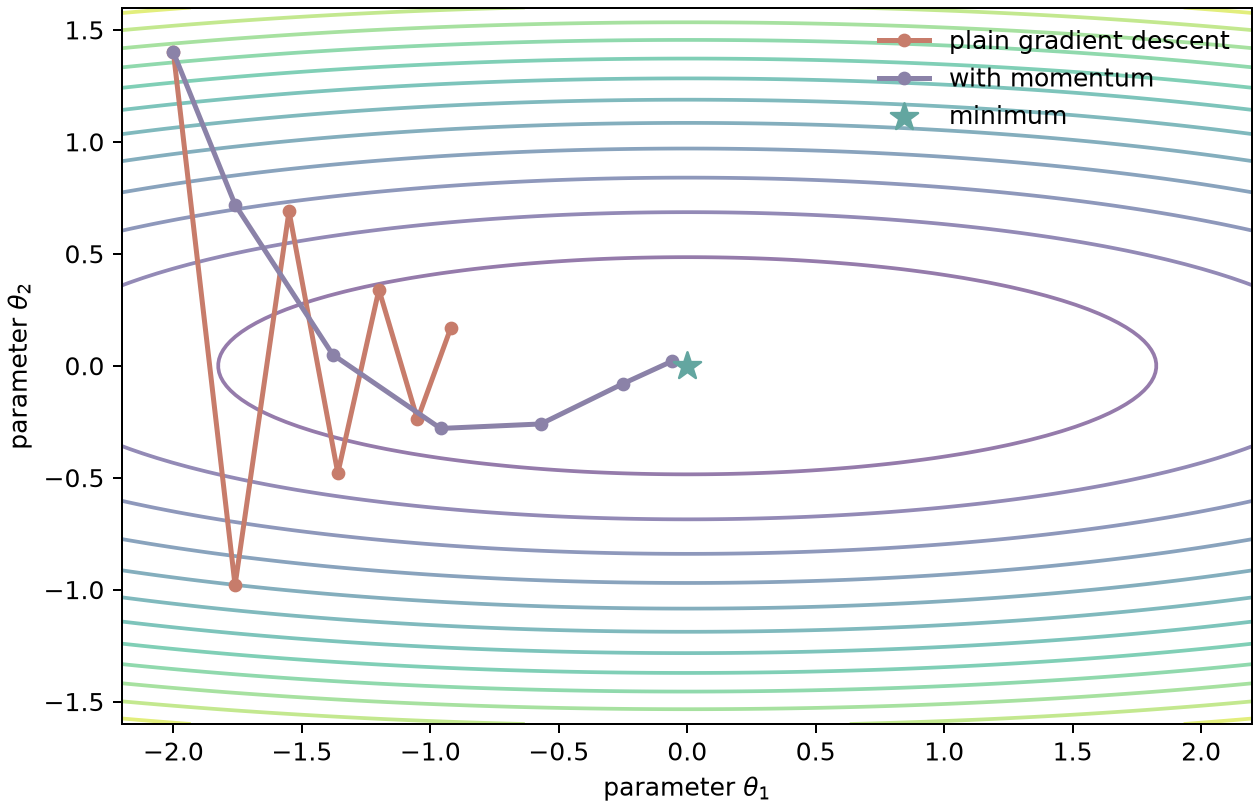
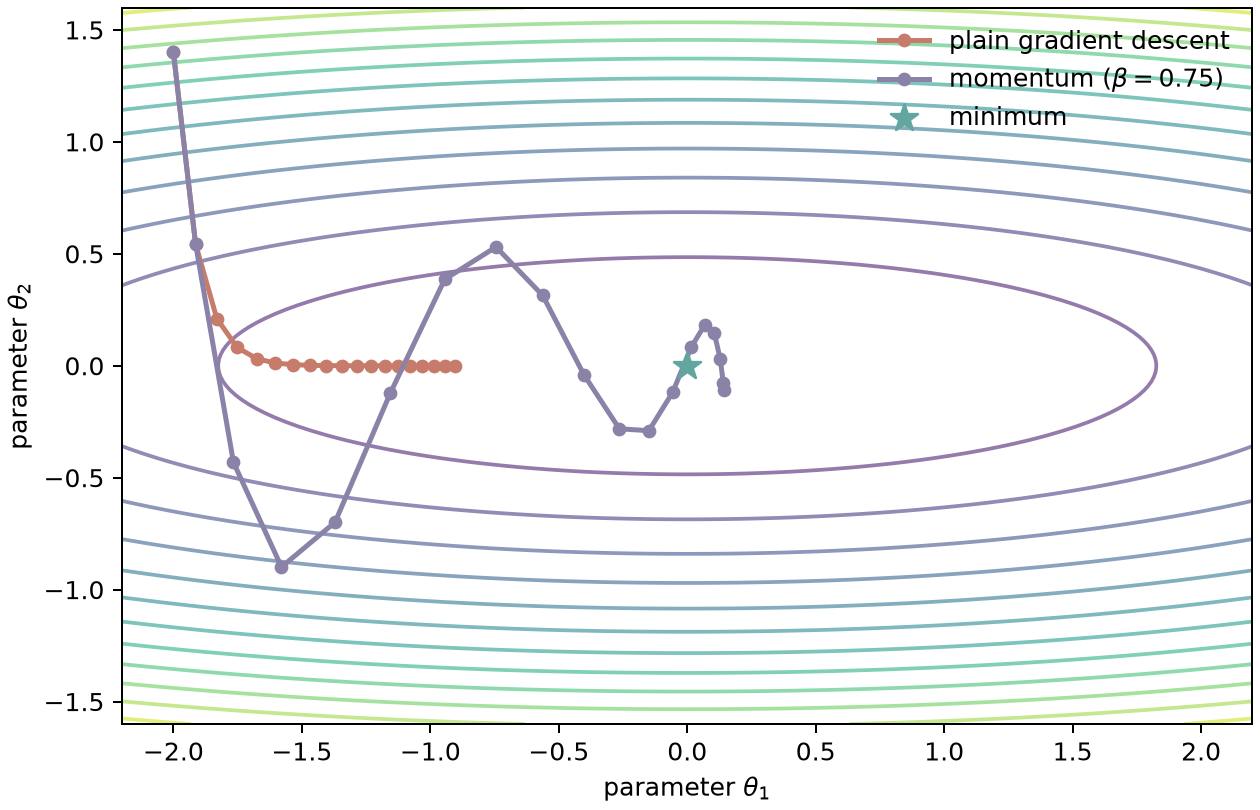
fix(presentations): correct neural architecture visuals
- derive gradient-descent and momentum paths from the displayed objective

- show LSTM gates as parallel computations and clarify causal forecasting

- preserve the convolution label and test both optimizer recurrences

diff --git a/ml-course/tests/test_neural_figures.py b/ml-course/tests/test_neural_figures.py
@@ -66,10 +66,36 @@ class ArchitectureMathTest(unittest.TestCase):
 
 
 class TrainingMathTest(unittest.TestCase):
-    def test_two_layer_gradient_matches_finite_difference(self) -> None:
-        figures = load_module(
+    def setUp(self) -> None:
+        self.figures = load_module(
             "training_figures", "presentations/03-neural-training/src/make_figures.py"
         )
+
+    def test_optimizer_paths_follow_the_displayed_recurrences(self) -> None:
+        start = np.array([-2.0, 1.4])
+        learning_rate = 0.18
+        gradient_descent, momentum = self.figures.optimizer_paths(
+            start=start,
+            steps=2,
+            learning_rate=learning_rate,
+            momentum=0.75,
+        )
+        first_gradient = np.array([-0.48, 4.76])
+        expected_first_step = start - learning_rate * first_gradient
+        second_gradient = np.array(
+            [0.24 * expected_first_step[0], 3.4 * expected_first_step[1]]
+        )
+        np.testing.assert_allclose(gradient_descent[1], expected_first_step)
+        np.testing.assert_allclose(momentum[1], expected_first_step)
+        np.testing.assert_allclose(
+            gradient_descent[2], expected_first_step - learning_rate * second_gradient
+        )
+        np.testing.assert_allclose(
+            momentum[2],
+            expected_first_step - learning_rate * (0.75 * first_gradient + second_gradient),
+        )
+
+    def test_two_layer_gradient_matches_finite_difference(self) -> None:
         x = np.array([0.4, -0.7])
         target = np.array([0.3])
         w1 = np.array([[0.2, -0.3], [0.5, 0.1]])
@@ -77,7 +103,7 @@ class TrainingMathTest(unittest.TestCase):
         w2 = np.array([[0.6, -0.4]])
         b2 = np.array([0.05])
 
-        gradients = figures.two_layer_gradients(x, target, w1, b1, w2, b2)
+        gradients = self.figures.two_layer_gradients(x, target, w1, b1, w2, b2)
         epsilon = 1e-6
         numerical = np.empty_like(w1)
         for row, column in np.ndindex(w1.shape):
@@ -86,8 +112,8 @@ class TrainingMathTest(unittest.TestCase):
             plus[row, column] += epsilon
             minus[row, column] -= epsilon
             numerical[row, column] = (
-                figures.two_layer_loss(x, target, plus, b1, w2, b2)
-                - figures.two_layer_loss(x, target, minus, b1, w2, b2)
+                self.figures.two_layer_loss(x, target, plus, b1, w2, b2)
+                - self.figures.two_layer_loss(x, target, minus, b1, w2, b2)
             ) / (2.0 * epsilon)
 
         np.testing.assert_allclose(gradients["w1"], numerical, rtol=1e-5, atol=1e-7)

diff --git a/ml-course/presentations/02-neural-architectures/main.tex b/ml-course/presentations/02-neural-architectures/main.tex
@@ -278,7 +278,7 @@
   \end{tabular}
   \par
   \vspace{0.45cm}
-  Always state whether the model may use future inputs. A bidirectional model is invalid for causal online forecasting.
+  Always state what is known at prediction time. A bidirectional encoder may process an entirely observed history window, but it must not encode inputs from the forecast horizon.
 \end{frame}
 
 \begin{frame}{Why Long Dependencies Are Difficult}
@@ -322,16 +322,25 @@
 \begin{frame}{What the LSTM Gates Do}
   \begin{center}
   \begin{tikzpicture}[
-    gate/.style={rounded corners, draw=softink!38, minimum width=2.2cm, minimum height=0.9cm, align=center},
-    arrow/.style={-{Latex[length=2.2mm]}, thick, draw=softink!55}, node distance=0.65cm
+    gate/.style={rounded corners, draw=softink!38, minimum width=1.75cm, minimum height=0.75cm, align=center},
+    state/.style={rounded corners, draw=softink!45, minimum width=4.0cm, minimum height=0.75cm, align=center},
+    arrow/.style={-{Latex[length=2.2mm]}, thick, draw=softink!55}
   ]
-    \node[gate, fill=softcoral!13] (forget) {forget gate $\mathbf f_t$\\retain old memory};
-    \node[gate, fill=softblue!14, right=of forget] (input) {input gate $\mathbf i_t$\\write candidate};
-    \node[gate, fill=softteal!15, right=of input] (cell) {cell state $\mathbf c_t$\\additive memory path};
-    \node[gate, fill=softgold!18, right=of cell] (output) {output gate $\mathbf o_t$\\expose hidden state};
-    \draw[arrow] (forget) -- (input);
+    \node (inputs) at (0,1.45) {$\mathbf u_t=[\mathbf x_t;\mathbf h_{t-1}]$};
+    \node[gate, fill=softcoral!13] (forget) at (-3.3,0) {forget $\mathbf f_t$};
+    \node[gate, fill=softblue!14] (input) at (-1.1,0) {input $\mathbf i_t$};
+    \node[gate, fill=softteal!15] (candidate) at (1.1,0) {candidate $\mathbf g_t$};
+    \node[gate, fill=softgold!18] (output) at (3.3,0) {output $\mathbf o_t$};
+    \foreach \gate in {forget,input,candidate,output}{\draw[arrow] (inputs) -- (\gate);}
+    \node[state, fill=softteal!10] (cell) at (-1.1,-1.35)
+      {$\mathbf c_t=\mathbf f_t\odot\mathbf c_{t-1}+\mathbf i_t\odot\mathbf g_t$};
+    \node[state, fill=softgold!12] (hidden) at (2.65,-1.35)
+      {$\mathbf h_t=\mathbf o_t\odot\tanh(\mathbf c_t)$};
+    \draw[arrow] (forget) -- (cell);
     \draw[arrow] (input) -- (cell);
-    \draw[arrow] (cell) -- (output);
+    \draw[arrow] (candidate) -- (cell);
+    \draw[arrow] (cell) -- (hidden);
+    \draw[arrow] (output) -- (hidden);
   \end{tikzpicture}
   \end{center}
   \begin{itemize}

diff --git a/ml-course/presentations/03-neural-training/src/make_figures.py b/ml-course/presentations/03-neural-training/src/make_figures.py
@@ -22,6 +22,8 @@ GOLD = "#D7A85E"
 CORAL = "#C77C6B"
 PURPLE = "#8B82A8"
 INK = "#263746"
+OPTIMIZER_LEARNING_RATE = 0.18
+MOMENTUM_COEFFICIENT = 0.75
 
 
 def two_layer_loss(
@@ -57,6 +59,29 @@ def two_layer_gradients(
         "w2": np.outer(delta2, hidden),
         "b2": delta2,
     }
+
+
+def quadratic_gradient(point: np.ndarray) -> np.ndarray:
+    """Gradient of J(theta) = 0.12 theta_1^2 + 1.7 theta_2^2."""
+    return np.array([0.24 * point[0], 3.4 * point[1]])
+
+
+def optimizer_paths(
+    start: np.ndarray,
+    steps: int,
+    learning_rate: float,
+    momentum: float,
+) -> tuple[np.ndarray, np.ndarray]:
+    gradient_descent = [start.astype(float)]
+    momentum_path = [start.astype(float)]
+    velocity = np.zeros_like(start, dtype=float)
+    for _ in range(steps):
+        gradient_descent.append(
+            gradient_descent[-1] - learning_rate * quadratic_gradient(gradient_descent[-1])
+        )
+        velocity = momentum * velocity + quadratic_gradient(momentum_path[-1])
+        momentum_path.append(momentum_path[-1] - learning_rate * velocity)
+    return np.array(gradient_descent), np.array(momentum_path)
 
 
 def save_learning_curves() -> None:
@@ -110,10 +135,22 @@ def save_optimizer_paths() -> None:
     loss = 0.12 * xx**2 + 1.7 * yy**2
     fig, ax = plt.subplots(figsize=(7.0, 4.5), constrained_layout=True)
     ax.contour(xx, yy, loss, levels=12, cmap="viridis", alpha=0.58)
-    gd = np.array([[-2.0, 1.4], [-1.76, -0.98], [-1.55, 0.69], [-1.36, -0.48], [-1.2, 0.34], [-1.05, -0.24], [-0.92, 0.17]])
-    momentum = np.array([[-2.0, 1.4], [-1.76, 0.72], [-1.38, 0.05], [-0.96, -0.28], [-0.57, -0.26], [-0.25, -0.08], [-0.06, 0.02]])
+    gd, momentum = optimizer_paths(
+        start=np.array([-2.0, 1.4]),
+        steps=18,
+        learning_rate=OPTIMIZER_LEARNING_RATE,
+        momentum=MOMENTUM_COEFFICIENT,
+    )
     ax.plot(gd[:, 0], gd[:, 1], "o-", color=CORAL, lw=2.0, ms=4.5, label="plain gradient descent")
-    ax.plot(momentum[:, 0], momentum[:, 1], "o-", color=PURPLE, lw=2.0, ms=4.5, label="with momentum")
+    ax.plot(
+        momentum[:, 0],
+        momentum[:, 1],
+        "o-",
+        color=PURPLE,
+        lw=2.0,
+        ms=4.5,
+        label=rf"momentum ($\beta={MOMENTUM_COEFFICIENT}$)",
+    )
     ax.scatter([0], [0], marker="*", s=130, color=TEAL, label="minimum", zorder=5)
     ax.set(xlabel=r"parameter $\theta_1$", ylabel=r"parameter $\theta_2$")
     ax.legend(frameon=False, loc="upper right")

diff --git a/ml-course/presentations/02-neural-architectures/src/make_figures.py b/ml-course/presentations/02-neural-architectures/src/make_figures.py
@@ -89,7 +89,7 @@ def save_receptive_fields() -> None:
     fig, ax = plt.subplots(figsize=(7.4, 4.1), constrained_layout=True)
     ax.fill_between(sizes, 1, receptive_field, color=TEAL, alpha=0.22)
     ax.plot(sizes, receptive_field, marker="o", color=TEAL, lw=2.8)
-    ax.set(xlabel="stacked $3\times3$ convolutional layers", ylabel="receptive-field width", xticks=sizes)
+    ax.set(xlabel=r"stacked $3\times3$ convolutional layers", ylabel="receptive-field width", xticks=sizes)
     ax.grid(True, alpha=0.18)
     fig.savefig(OUTPUT_DIR / "receptive_field_growth.png", dpi=180, transparent=True)
     plt.close(fig)
